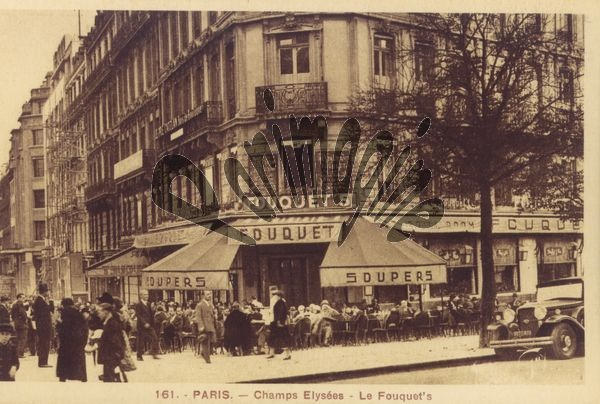
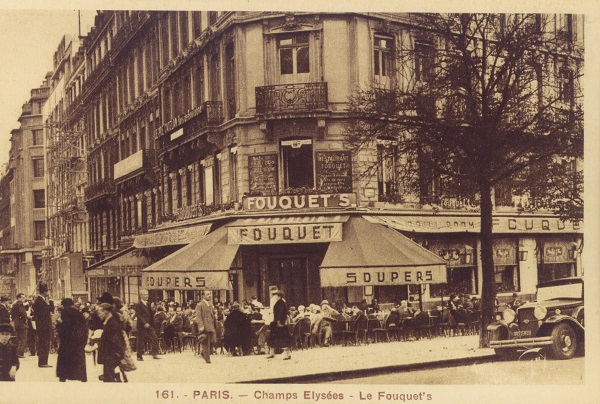
removed watermarks on avant/après

Changed region(s): [[0.24, 0.2673, 0.75, 0.6238], [0.42, 0.2079, 0.48, 0.2673], [0.69, 0.297, 0.72, 0.3564]]

diff --git a/index.html b/index.html
@@ -1,165 +1,190 @@
 <!DOCTYPE html>
 <html lang="en">
-  <head>
-    <meta charset="utf-8">
-    <title>Parimagine - nouveautés</title>
-    <meta name="viewport" content="width=device-width, initial-scale=1.0">
-    <meta name="description" content="">
-    <meta name="author" content="mgouthiere, cthiebaud">
+<head>
+<meta charset="utf-8">
+<title>Parimagine - nouveautés</title>
+<meta name="viewport" content="width=device-width, initial-scale=1.0">
+<meta name="description" content="">
+<meta name="author" content="mgouthiere, cthiebaud">
 
-    <!-- Le styles -->
-    <link href="/assets/bootstrap/css/bootstrap.css" rel="stylesheet">
-    <link href="style.css" rel="stylesheet">
-    <link href="/assets/bootstrap/css/bootstrap-responsive.css" rel="stylesheet">
+<!-- Le styles -->
+<link href="/assets/bootstrap/css/bootstrap.css" rel="stylesheet">
+<link href="style.css" rel="stylesheet">
+<link href="/assets/bootstrap/css/bootstrap-responsive.css"
+  rel="stylesheet">
 
-    <!-- HTML5 shim, for IE6-8 support of HTML5 elements -->
-    <!--[if lt IE 9]>
+<!-- HTML5 shim, for IE6-8 support of HTML5 elements -->
+<!--[if lt IE 9]>
       <script src="../assets/bootstrap/js/html5shiv.js"></script>
     <![endif]-->
 
-    <!-- Fav and touch icons 
+<!-- Fav and touch icons 
     <link rel="apple-touch-icon-precomposed" sizes="144x144" href="../assets/ico/apple-touch-icon-144-precomposed.png">
     <link rel="apple-touch-icon-precomposed" sizes="114x114" href="../assets/ico/apple-touch-icon-114-precomposed.png">
       <link rel="apple-touch-icon-precomposed" sizes="72x72" href="../assets/ico/apple-touch-icon-72-precomposed.png">
                     <link rel="apple-touch-icon-precomposed" href="../assets/ico/apple-touch-icon-57-precomposed.png">
                                    <link rel="shortcut icon" href="../assets/ico/favicon.png">
     -->
-    <style type="text/css">
-    .buy {
-    	cursor: pointer;
-    	opacity: .2;
-    }
-    </style>
-  </head>
+<style type="text/css">
+.buy {
+  cursor: pointer;
+  opacity: .2;
+}
+</style>
+</head>
 
-  <body>
+<body>
 
-    <div class="navbar navbar-fixed-top">
-      <div class="navbar-inner">
-        <div class="container">
-          <button type="button" class="btn btn-navbar" data-toggle="collapse" data-target=".nav-collapse">
-            <span class="icon-bar"></span>
-            <span class="icon-bar"></span>
-            <span class="icon-bar"></span>
-          </button>
-          <div class="brand"><a href="/index.html">Parimagine</a></div>
-          <div class="nav-collapse collapse">
-            <ul class="nav">
-              <li class="active"><a href="#">nouveautés</a></li>
-              <li class=""><a href="contacts.html">contacts</a></li>
-              <li class=""><a href="who.html">qui sommes-nous</a></li>
-              <li class=""><a href="phototheque.html">photothèque</a></li>
-              <li class=""><a href="before-after.html">avant/après</a></li>
-              <li class=""><a href="maps.html">carte</a></li>
-            </ul>
-          </div><!--/.nav-collapse -->
+  <div class="navbar navbar-fixed-top">
+    <div class="navbar-inner">
+      <div class="container">
+        <button type="button" class="btn btn-navbar"
+          data-toggle="collapse" data-target=".nav-collapse">
+          <span class="icon-bar"></span> 
+          <span class="icon-bar"></span>
+          <span class="icon-bar"></span>
+        </button>
+        <div class="brand">
+          <a href="/index.html">Parimagine</a>
         </div>
+        <div class="nav-collapse collapse">
+          <ul class="nav">
+            <li class="active"><a href="#">nouveautés</a></li>
+            <li class=""><a href="contacts.html">contacts</a></li>
+            <li class=""><a href="who.html">qui sommes-nous</a></li>
+            <li class=""><a href="phototheque.html">photothèque</a></li>
+            <li class=""><a href="before-after.html">avant/après</a></li>
+            <li class=""><a href="maps.html">carte</a></li>
+          </ul>
+        </div>
+        <!--/.nav-collapse -->
       </div>
     </div>
+  </div>
 
-    <div id="container" class="container">
+  <div id="container" class="container"></div>
+  <!-- /container -->
 
-    </div> <!-- /container -->
-
-    <!-- Le javascript
+  <!-- Le javascript
     ================================================== -->
-    <!-- Placed at the end of the document so the pages load faster -->
-    <script src="/assets/jquery/jquery-1.9.1.js"></script>
-    <script src="/assets/jquery.browser-1.0.js"></script>
-    <script src="/assets/bootstrap/js/bootstrap.js"></script>
-    <script src="/assets/handlebars/handlebars.js"></script>
+  <!-- Placed at the end of the document so the pages load faster -->
+  <script src="/assets/jquery/jquery-1.9.1.js"></script>
+  <script src="/assets/jquery.browser-1.0.js"></script>
+  <script src="/assets/bootstrap/js/bootstrap.js"></script>
+  <script src="/assets/handlebars/handlebars.js"></script>
 
-<script id="piece_of_news" type="text/x-handlebars-template">
-<ul class="nav nav-tabs">
+  <script id="piece_of_news" type="text/x-handlebars-template"
+ ><ul class="nav nav-tabs">
   {{#each items}}
-  <li><a href="#iframe{{this.id}}" data-toggle="tab">{{this.t}}</a></li>
+    <li><a href="#iframe{{this.id}}" data-toggle="tab">{{this.t}}</a></li>
   {{/each}}
 </ul>
 
 <div id="myTabContent" class="tab-content">
   {{#each items}}
-  <div class="tab-pane fade in" id="iframe{{this.id}}">    
-    <div class="row">
-      <div class="span12 pagination-centered iframe_container">
-		<div style="float:left; visibility: hidden;">
-			<a href="{{this.f}}" target="_fnac_">
-				<img class="buy" src="/images/120px-Fnac.svg.png" style="width:60px; height:auto;  margin: 0 0 20px 0;"/>
-			</a>
-			<br/>
-			<a href="{{this.a}}" target="_amazon_">
-				<img class="buy" src="/images/amazon.jpg" style="width:60px; height:auto; "/>
-			</a>
-		</div>
-        <img class="img-polaroid" src="/images/{{this.i}}" style="height:600px;"/>
-		<div style="float: right;">
-			<a href="{{this.f}}" target="_fnac_">
-				<img class="buy" src="/images/120px-Fnac.svg.png" style="width:60px; height:auto;  margin: 0 0 20px 0;"/>
-			</a>
-			<br/>
-			<a href="{{this.a}}" target="_amazon_">
-				<img class="buy" src="/images/amazon.jpg" style="width:60px; height:auto; "/>
-			</a>
-		</div>
+    <div class="tab-pane fade in" id="iframe{{this.id}}">    
+      <div class="row">
+        <div class="span12 pagination-centered iframe_container">
+      <div style="float:left; visibility: hidden; width:60px; ">
+        &nbsp;
+      </div>
+      <img class="img-polaroid" src="/images/{{this.i}}" style="height:600px;"/>
+      <div style="float: right;">
+        <a href="{{this.f}}" target="_fnac_">
+          <img class="buy" src="/images/120px-Fnac.svg.png" style="width:60px; height:auto;"/>
+        </a>
+        <div style="width:60px; height:auto;  margin: 20px  0 20px 0;"/>
+        <a href="{{this.a}}" target="_amazon_">
+          <img class="buy" src="/images/amazon.jpg" style="width:60px; height:auto; "/>
+        </a>
+      </div>
+        </div>
       </div>
     </div>
-  </div>
   {{/each}}
-</div></script>    
+</div></script>
 
-    <script type="text/javascript">
-      var items = {
-          items:[
-            {id:"1", t:"Les Halles", i:"les-halles-couverture-from-powerpoint.jpg",
-            f:"http://livre.fnac.com/a5715747/Martha-Carroll-Les-Halles",
-            a:"http://www.amazon.fr/dp/2916195467"
-            },
-            {id:"2", t:"Îlot Chalon", i:"ilot-chalon-from-powerpoint.png",
-            f:"http://livre.fnac.com/a5715746/Francis-Campiglia-L-ilot-Chalon-chroniques-d-un-quartier-de-Paris",
-           	a:"http://www.amazon.fr/dp/2916195424"
-            },
-            {id:"3", t:"Gérard Bloncourt", i:"paris-de-gerard-bloncourt.jpg",
-            f:"http://livre.fnac.com/a3334029/Gerald-Bloncourt-Le-Paris-de-Gerald-Bloncourt",
-            a:"http://www.amazon.fr/dp/2916195351"
-            },
-            {id:"4", t:"Piéton du 11ème", i:"le-pieton-du-11eme.jpg",
-            f:"http://livre.fnac.com/a2990051/Gerard-Lavalette-Le-pieton-du-11eme",
-            a:"http://www.amazon.fr/dp/2916195343"
-            },
-            {id:"5", t:"Mémoire de zinc", i:"memoire-de-zinc.jpg",
-            f:"http://livre.fnac.com/a5085718/Gerard-Lavalette-Memoire-de-zinc",
-            a:"http://www.amazon.fr/dp/2916195459"
-            },
-            {id:"6", t:"Paris Bohème", i:"paris-boheme.jpg",
-            f:"http://livre.fnac.com/a3897287/J-Jehan-Paris-boheme-1960",
-            a:"http://www.amazon.fr/dp/2916195394"
-            },
-            {id:"7", t:"Claude Vénézia", i:"paris-de-claude-venezia.jpg",
-            f:"http://livre.fnac.com/a4049701/Leon-Claude-Venezia-Le-Paris-de-Leon-Claude-Venezia",
-            a:"http://www.amazon.fr/dp/2916195408"
-            },
-            {id:"8", t:"Mémoires des rues", i:"memoires-des-rues.jpg",
-            f:"http://recherche.fnac.com/Search/SearchResult.aspx?SCat=2%211&Search=memoires+des+rues+parimagine&sft=1&submitbtn=OK",
-            a:"http://www.amazon.fr/s/ref=nb_sb_noss?__mk_fr_FR=%C3%85M%C3%85Z%C3%95%C3%91&url=search-alias%3Dstripbooks&field-keywords=memoires+des+rues+parimagine&rh=n%3A301061%2Ck%3Amemoires+des+rues+parimagine"
-			}
-          ]
-      };
-
-    $(document).ready(function(){
-
-      var source   = $("#piece_of_news").html();
-      var template = Handlebars.compile(source);      
-
+  <script type="text/javascript">
+    var items = {
+      items : [
+          {
+            id : "1",
+            t : "Les Halles",
+            i : "les-halles-couverture-from-powerpoint.jpg",
+            f : "http://livre.fnac.com/a5715747/Martha-Carroll-Les-Halles",
+            a : "http://www.amazon.fr/dp/2916195467"
+          },
+          {
+            id : "2",
+            t : "Îlot Chalon",
+            i : "ilot-chalon-from-powerpoint.png",
+            f : "http://livre.fnac.com/a5715746/Francis-Campiglia-L-ilot-Chalon-chroniques-d-un-quartier-de-Paris",
+            a : "http://www.amazon.fr/dp/2916195424"
+          },
+          {
+            id : "3",
+            t : "Gérard Bloncourt",
+            i : "paris-de-gerard-bloncourt.jpg",
+            f : "http://livre.fnac.com/a3334029/Gerald-Bloncourt-Le-Paris-de-Gerald-Bloncourt",
+            a : "http://www.amazon.fr/dp/2916195351"
+          },
+          {
+            id : "4",
+            t : "Piéton du 11ème",
+            i : "le-pieton-du-11eme.jpg",
+            f : "http://livre.fnac.com/a2990051/Gerard-Lavalette-Le-pieton-du-11eme",
+            a : "http://www.amazon.fr/dp/2916195343"
+          },
+          {
+            id : "5",
+            t : "Mémoire de zinc",
+            i : "memoire-de-zinc.jpg",
+            f : "http://livre.fnac.com/a5085718/Gerard-Lavalette-Memoire-de-zinc",
+            a : "http://www.amazon.fr/dp/2916195459"
+          },
+          {
+            id : "6",
+            t : "Paris Bohème",
+            i : "paris-boheme.jpg",
+            f : "http://livre.fnac.com/a3897287/J-Jehan-Paris-boheme-1960",
+            a : "http://www.amazon.fr/dp/2916195394"
+          },
+          {
+            id : "7",
+            t : "Claude Vénézia",
+            i : "paris-de-claude-venezia.jpg",
+            f : "http://livre.fnac.com/a4049701/Leon-Claude-Venezia-Le-Paris-de-Leon-Claude-Venezia",
+            a : "http://www.amazon.fr/dp/2916195408"
+          },
+          {
+            id : "8",
+            t : "Mémoires des rues",
+            i : "memoires-des-rues.jpg",
+            f : "http://recherche.fnac.com/Search/SearchResult.aspx?SCat=2%211&Search=memoires+des+rues+parimagine&sft=1&submitbtn=OK",
+            a : "http://www.amazon.fr/s/ref=nb_sb_noss?__mk_fr_FR=%C3%85M%C3%85Z%C3%95%C3%91&url=search-alias%3Dstripbooks&field-keywords=memoires+des+rues+parimagine&rh=n%3A301061%2Ck%3Amemoires+des+rues+parimagine"
+          } ]
+    };
+    
+    $(document).ready(function() {
+    
+      var source = $("#piece_of_news").html();
+      var template = Handlebars.compile(source);
+    
       $('#container').html(template(items));
       $('#container ul li:first-child').addClass('active');
       $('#container div div:first-child').addClass('active');
-      
-	  $(".buy").hover(function() {
-	     $(this).stop().animate({ opacity: 1 });
-	  },function() {
-	     $(this).stop().animate({ opacity: 0.2 });
-	  });
-
+    
+      $(".buy").hover(function() {
+        $(this).stop().animate({
+          opacity : 1
+        });
+      }, function() {
+        $(this).stop().animate({
+          opacity : 0.2
+        });
+      });
+    
     });
-    </script>
-  </body>
+  </script>
+</body>
 </html>
